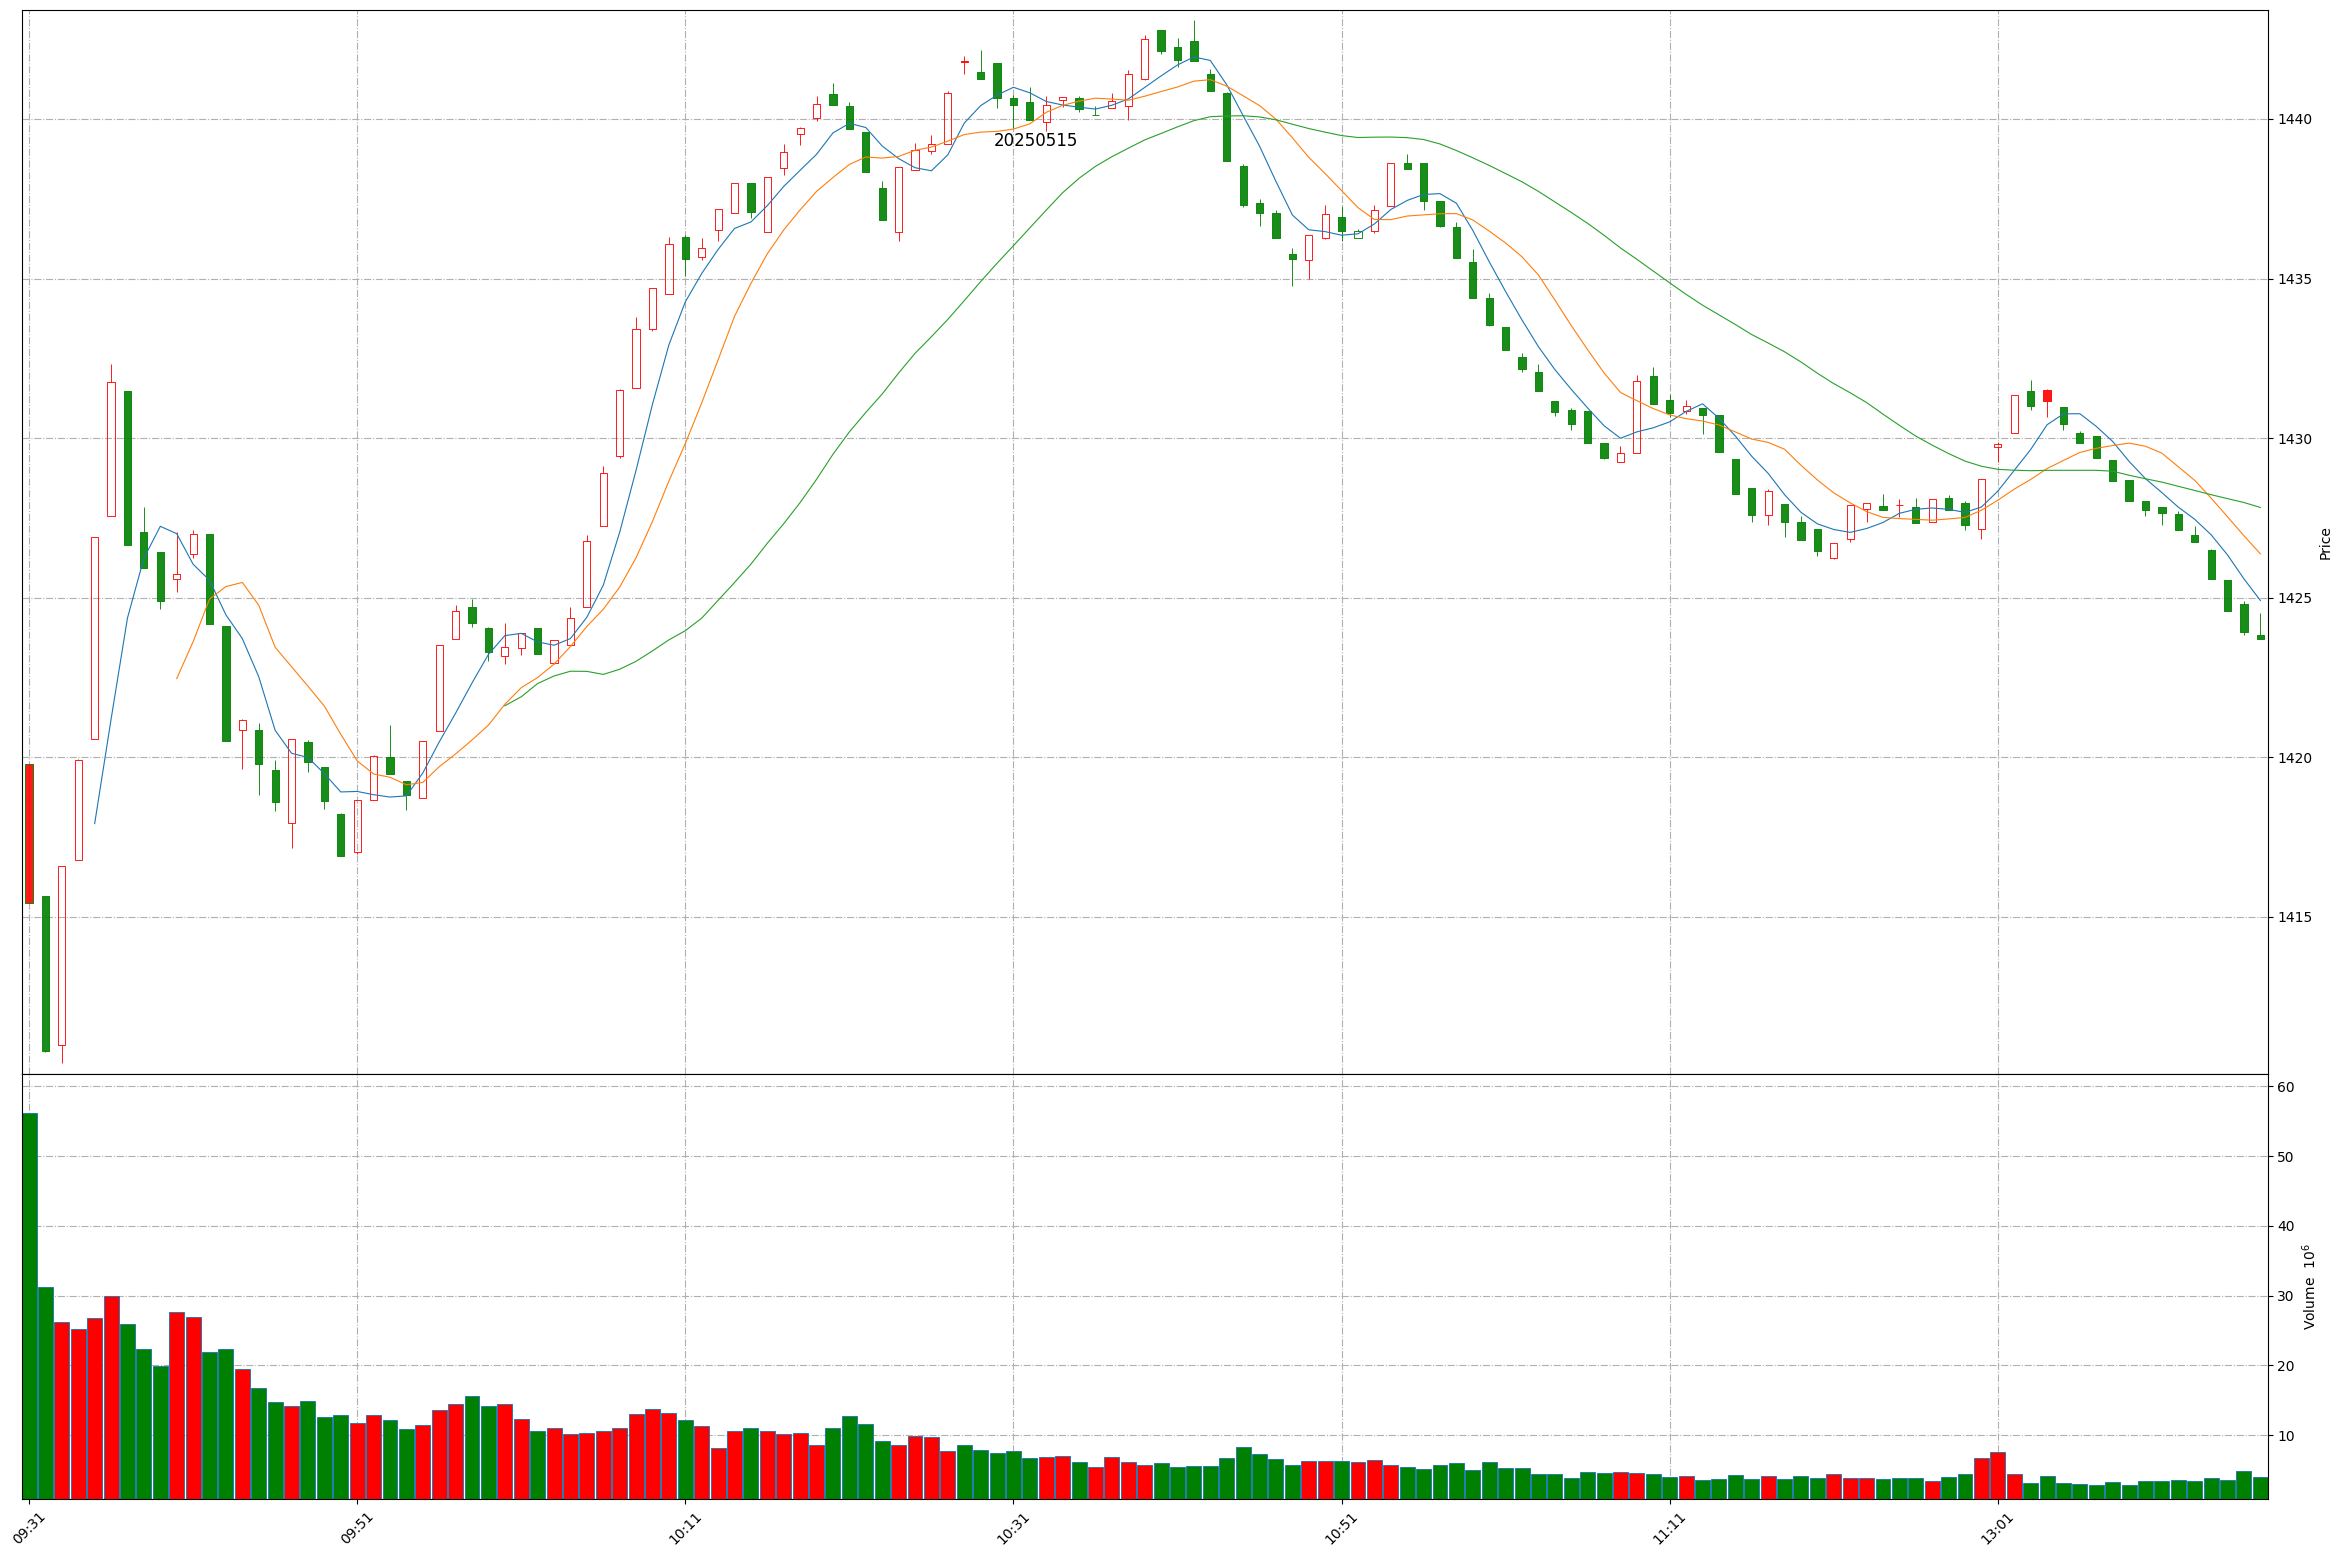
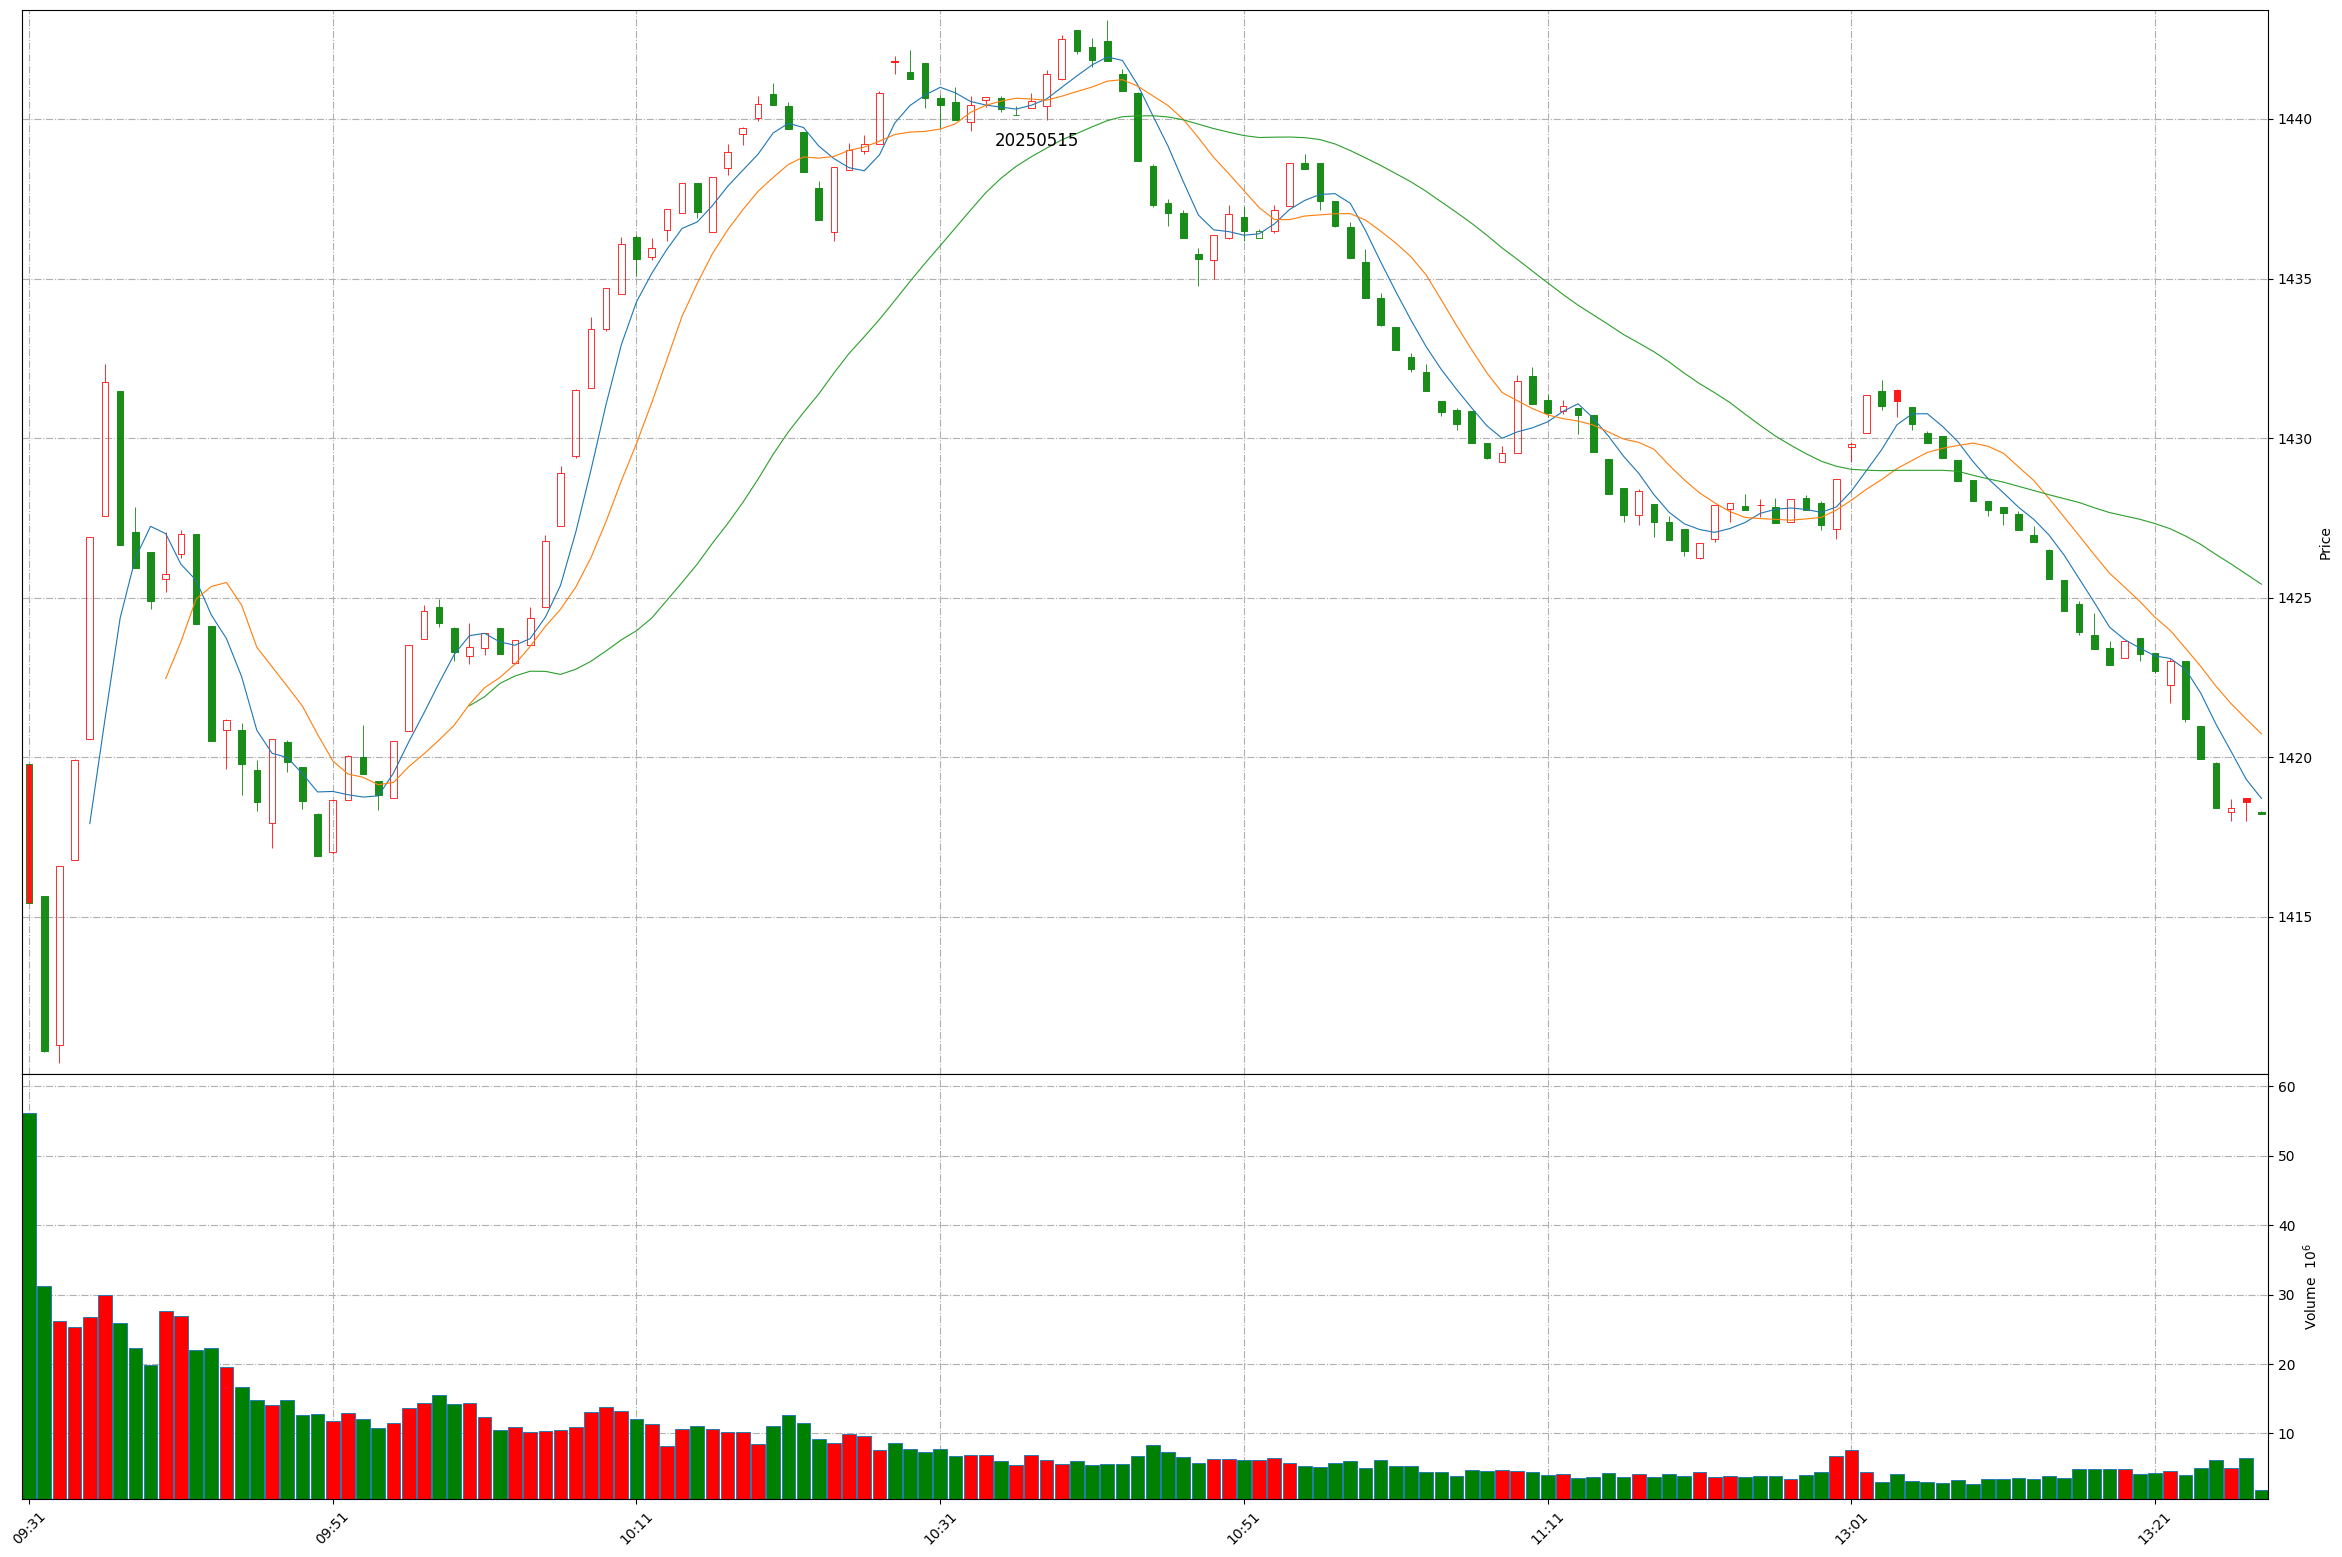
Github action update at 2025-05-15 13:27:32.

diff --git a/README.md b/README.md
@@ -1,11 +1,11 @@
 
 # Daily-A-share-market-quotes 每日 A 股指数（5min 更新）- 20250515
 
-### 上证指数 20250515 13:16
+### 上证指数 20250515 13:27
 ![](./fig/2025/5/20250515-sh000001.png)
 
-### 深证成指 20250515 13:16
+### 深证成指 20250515 13:27
 ![](./fig/2025/5/20250515-sz399001.png)
 
-### 北证50 20250515 13:16
+### 北证50 20250515 13:27
 ![](./fig/2025/5/20250515-bj899050.png)
